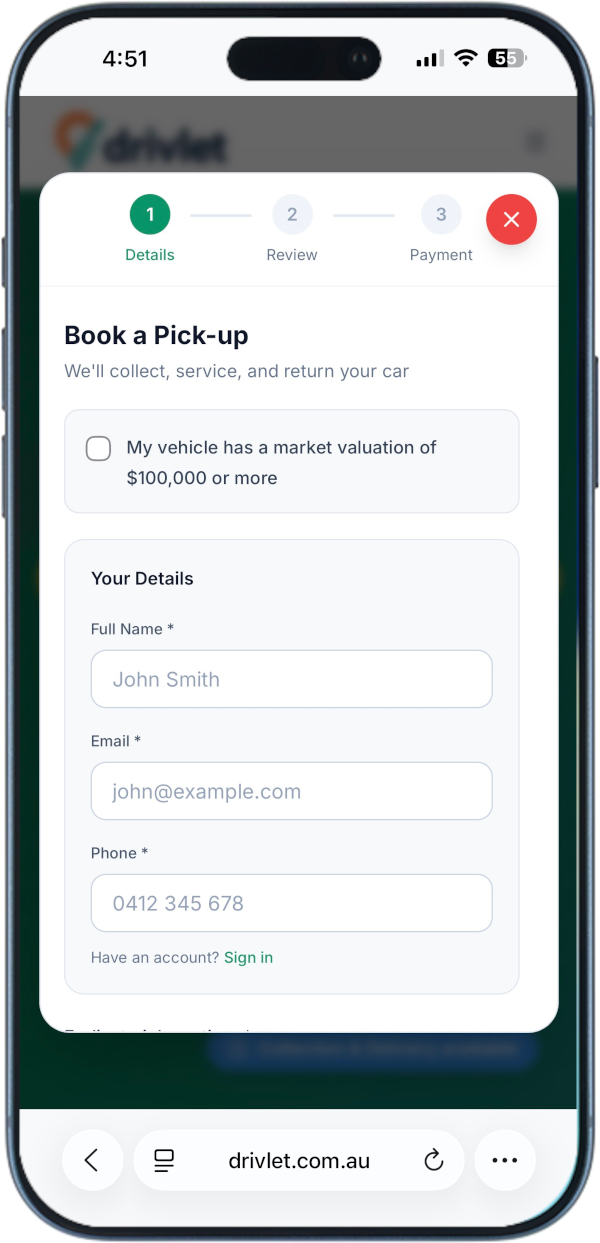
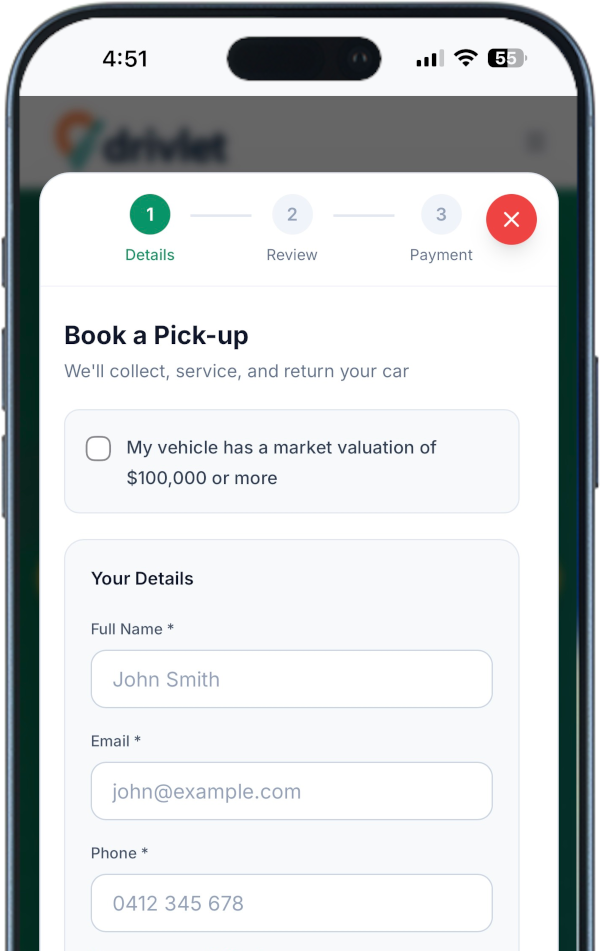
Fix phone - ogg
Fix phone - ogg

diff --git a/src/components/homepage/HowItWorksSection.tsx b/src/components/homepage/HowItWorksSection.tsx
@@ -124,22 +124,23 @@ export default function HowItWorksSection() {
   const currentStep = steps[currentIndex];
 
   // Phone with gradient pill component - reused for desktop and mobile
+  // Images are 600x951 (pre-cropped), displayed at 260px width
   const PhoneWithPill = () => (
-    <div className="relative flex h-[344px] w-[280px] items-end justify-center pb-[24px]">
-      {/* Gradient pill background - extends 24px below the phone */}
+    <div className="relative flex h-[440px] w-[300px] items-end justify-center pb-[24px]">
+      {/* Gradient pill background */}
       <div
-        className={`absolute bottom-0 h-[204px] w-[240px] rounded-[2.5rem] bg-gradient-to-br shadow-lg ${currentStep.gradient}`}
+        className={`absolute bottom-0 h-[260px] w-[260px] rounded-[2.5rem] bg-gradient-to-br shadow-lg ${currentStep.gradient}`}
       />
       {/* Phone image - fades out at the bottom to blend into pill */}
       <Image
         src={currentStep.image}
         alt={currentStep.title}
-        width={242}
-        height={276}
-        className="relative z-10"
+        width={600}
+        height={951}
+        className="relative z-10 h-auto w-[260px]"
         style={{
-          maskImage: 'linear-gradient(to bottom, black 80%, transparent 100%)',
-          WebkitMaskImage: 'linear-gradient(to bottom, black 80%, transparent 100%)',
+          maskImage: 'linear-gradient(to bottom, black 85%, transparent 100%)',
+          WebkitMaskImage: 'linear-gradient(to bottom, black 85%, transparent 100%)',
         }}
         priority
       />
